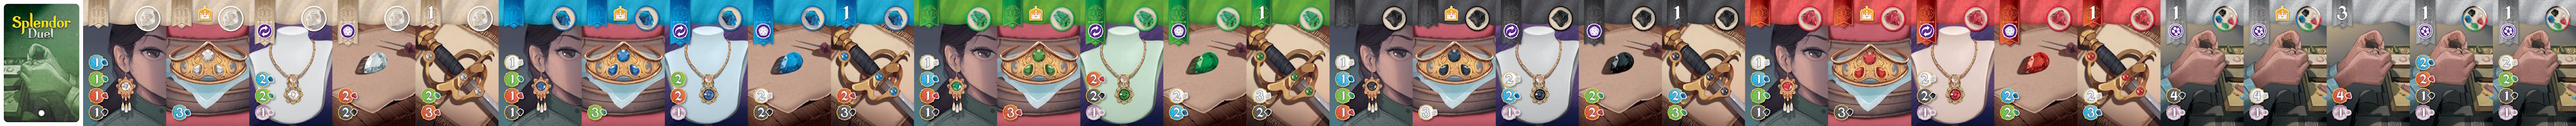
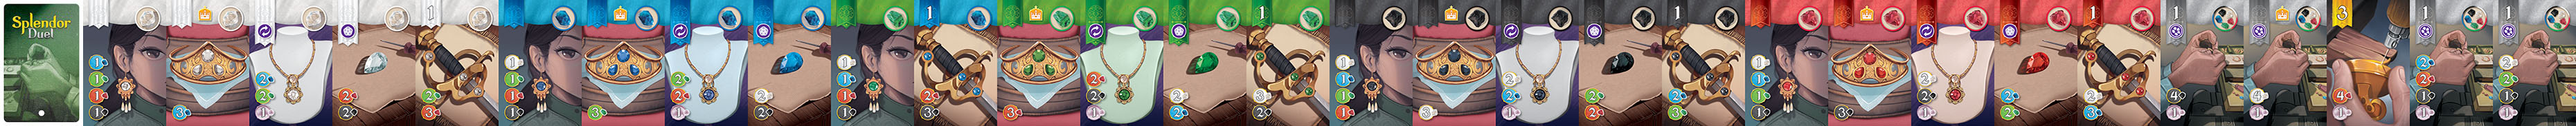
fix cards art

diff --git a/splendorduel.css b/splendorduel.css
@@ -1050,7 +1050,7 @@ body > .card {
   color: white;
   text-shadow: 0 0 1px black, 0 0 2px black, 0 0 3px black;
   font-size: 20px;
-  line-height: 42px;
+  margin-bottom: -5px;
 }
 .player-board .spl_miniplayerboard .card-points.hidden {
   visibility: hidden;

diff --git a/src/_playerboards.scss b/src/_playerboards.scss
@@ -91,7 +91,7 @@
       color: white;
       text-shadow: 0 0 1px black, 0 0 2px black, 0 0 3px black;
       font-size: 20px;
-      line-height: 42px;
+      margin-bottom: -5px;
 
       &.hidden {
         visibility: hidden;
